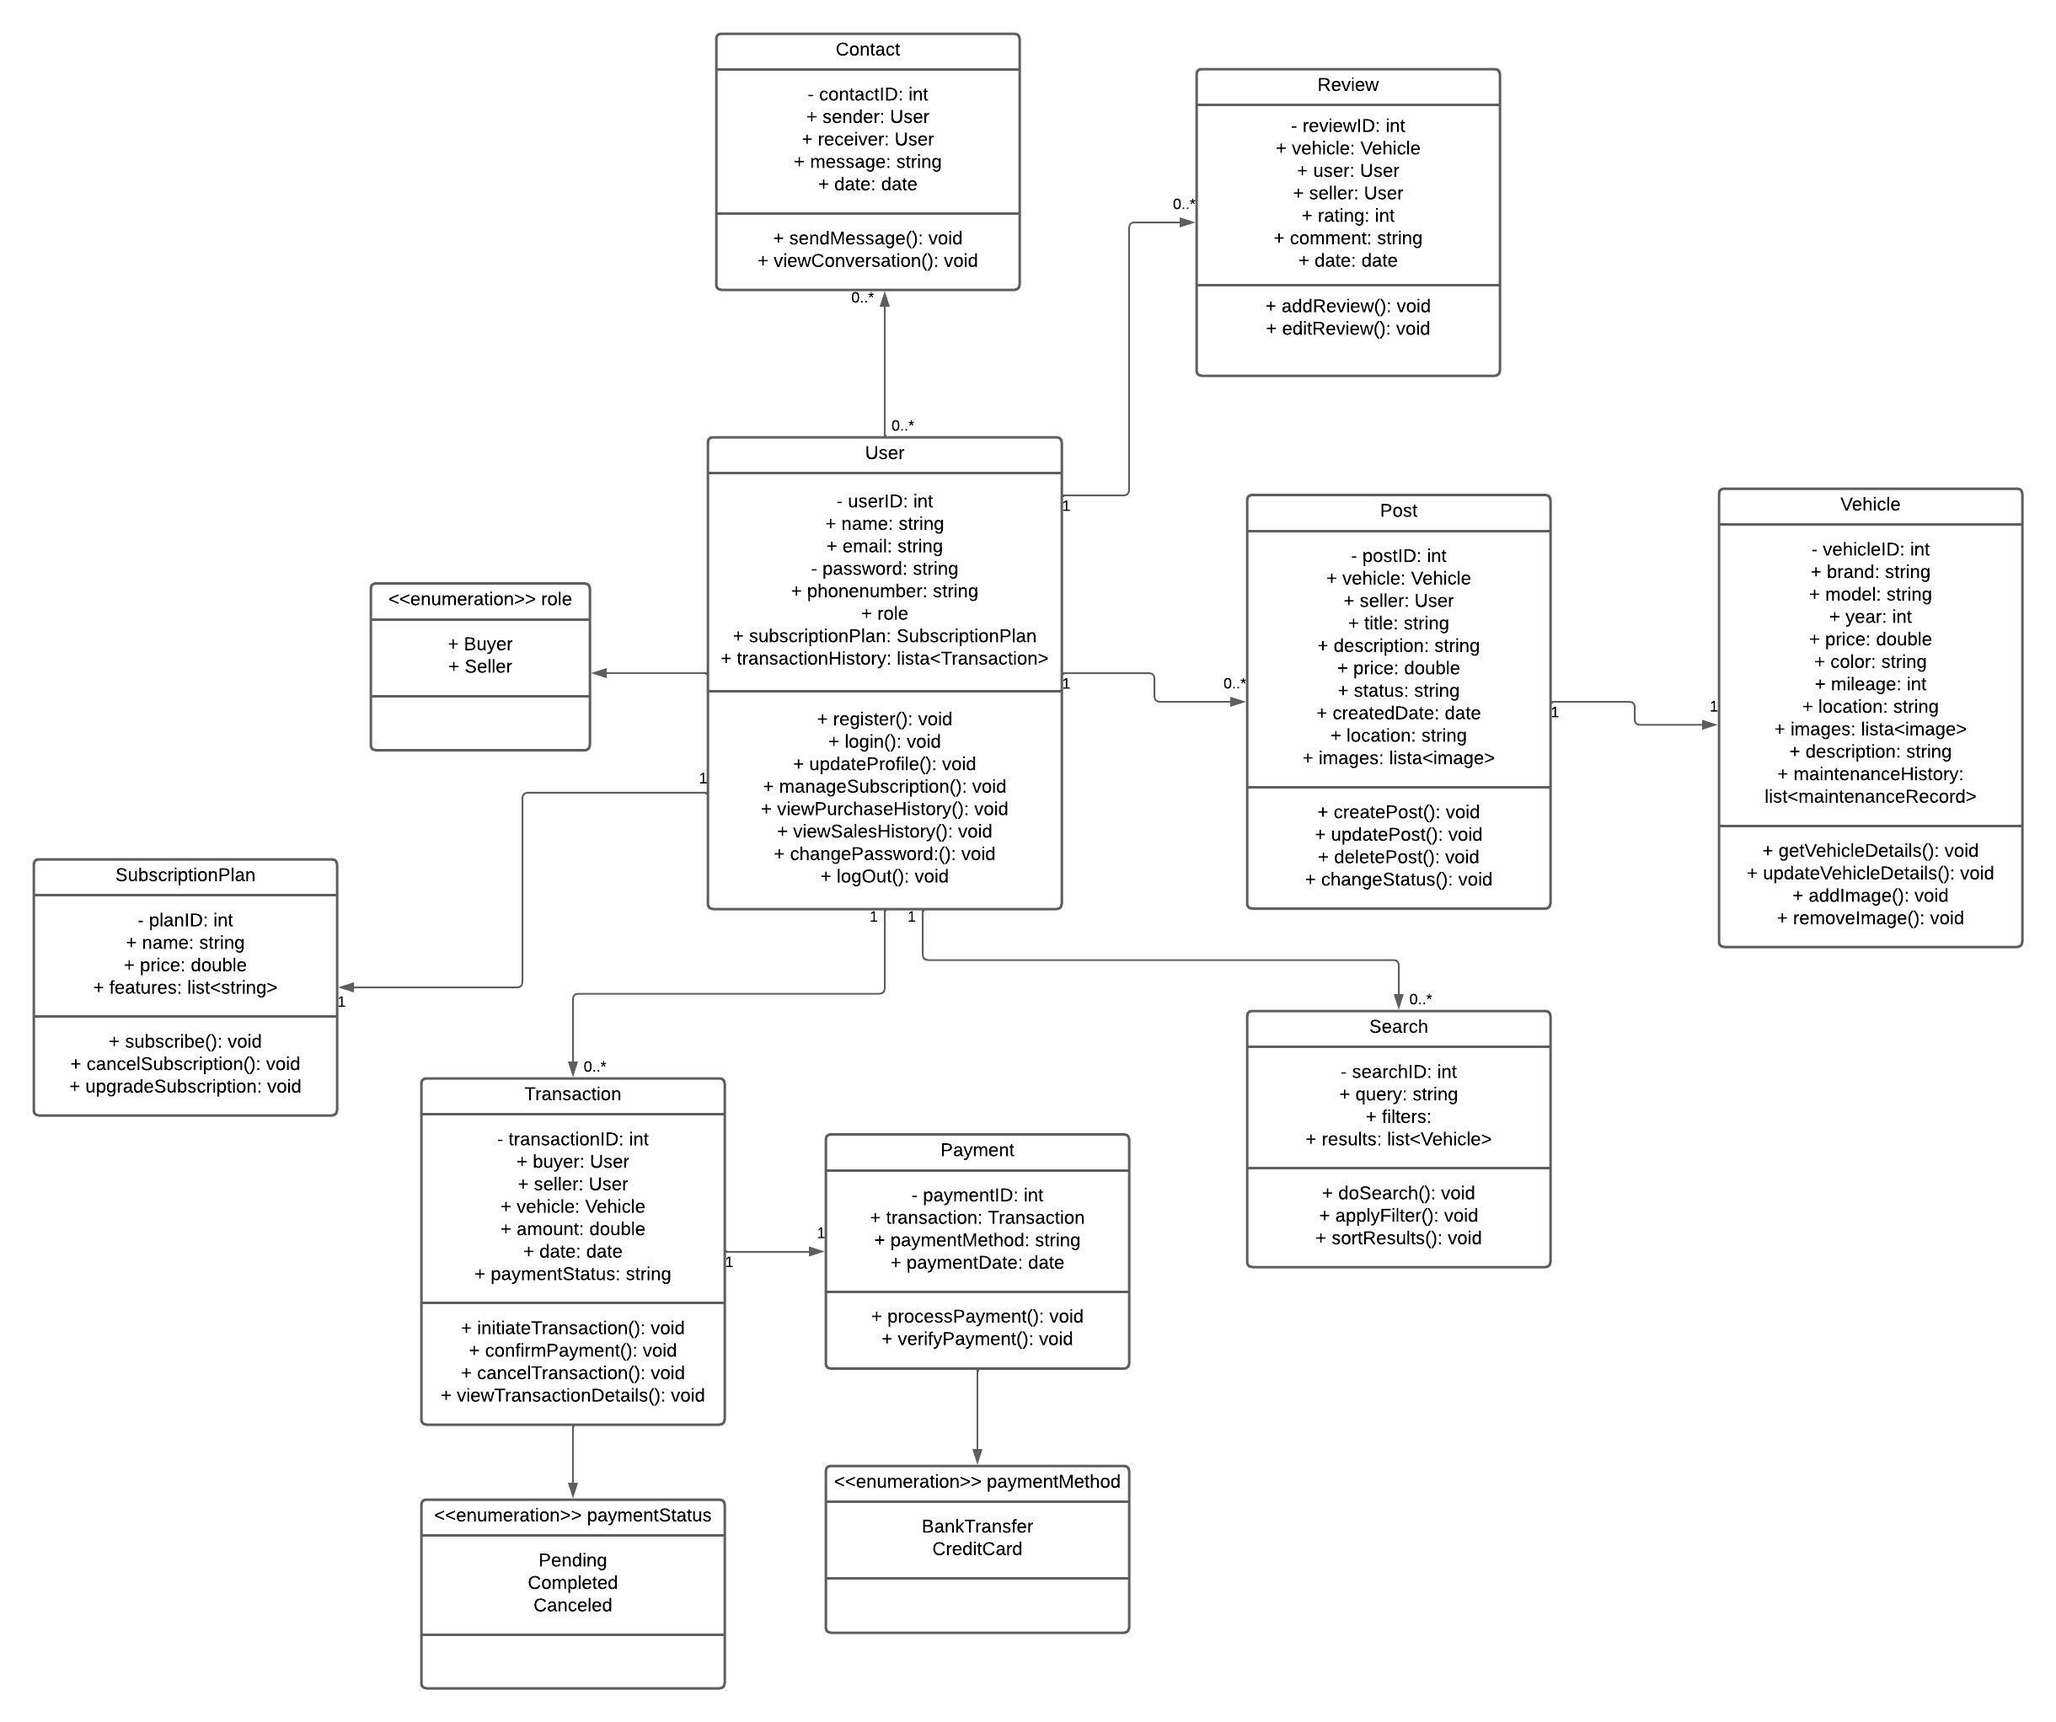
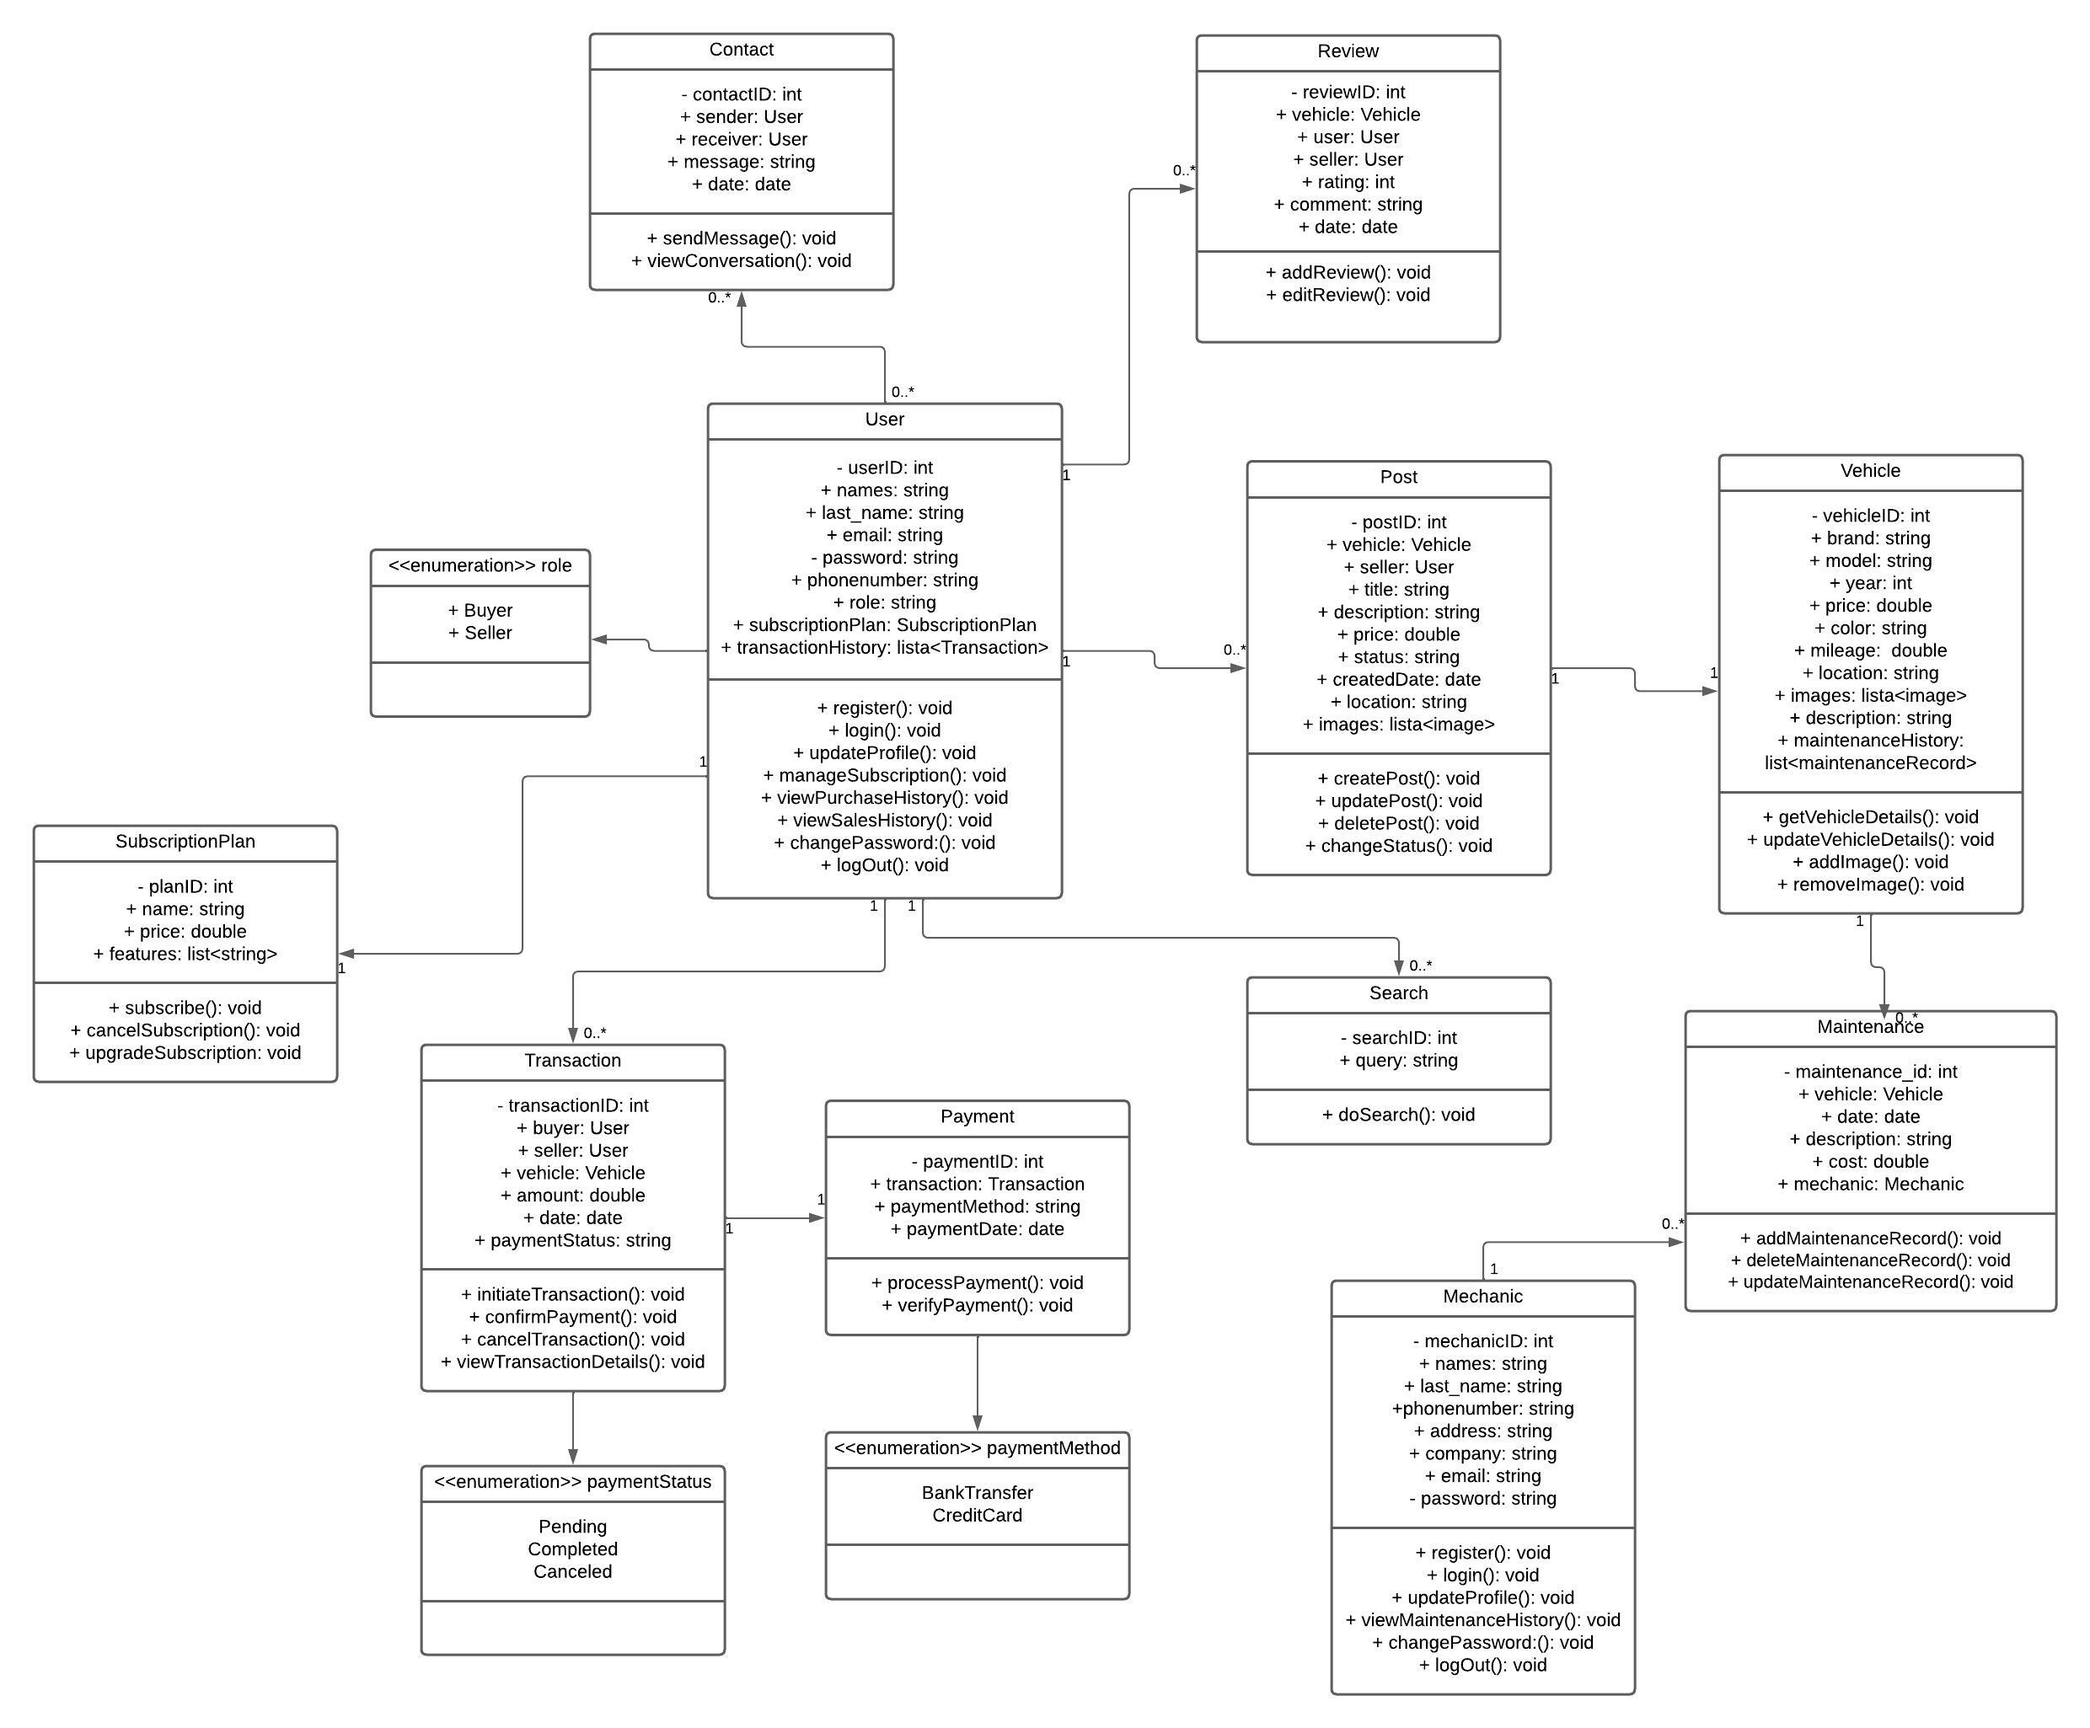
docs: update README.md

diff --git a/README.md b/README.md
@@ -498,12 +498,36 @@ Clase Review
 | comment | string | Comentarios de la reseña
 | date | date | Fecha de publicación
 
- 
+<br><br/>
+Clase Maintenance
+| Atributo  | Tipo  | Descripción |
+| ------------ | ------------ |------------ |
+| maintenanceID  | int | Identificador único del mantenimiento
+| vehicle | Vehicle | Vehículo objetivo del mantenimiento
+| date | date | Fecha del mantenimiento
+| description | string | Descripción del mantenimiento
+| cost | double | Costo del mantenimiento
+| mechanic | Mechanic | Mecánico a cargo del mantenimiento
+
+<br><br/>
+Clase Mechanic
+| Atributo  | Tipo  | Descripción |
+| ------------ | ------------ |------------ |
+| mechanicID  | int | Identificador único del mecánico
+| names | string | Nombres
+| last_name | string | Apellidos
+| phonenumber | string | Número telefónico
+| address | string | Dirección del taller automotriz
+| company | string | Nombre del taller automotriz
+| email | string | Correo del mecánico
+|password| string| Contraseña de la cuenta del mecánico
+
+
 ## 4.8 Database Design
+El sistema de gestión de bases de datos relacional (RDBMS) que utilizaremos para generar las tablas y establecer sus relaciones en nuestra plataforma será MySQL. Hemos elegido MySQL por su facilidad de uso y por su integración con MySQL Workbench, que nos proporciona una herramienta visual eficiente para la administración de la base de datos.
 
 ### 4.8.1 Database Diagram
-
-
+<img src="assets/databaseDiagram.png" alt="database diagram"/>
 
 
 
